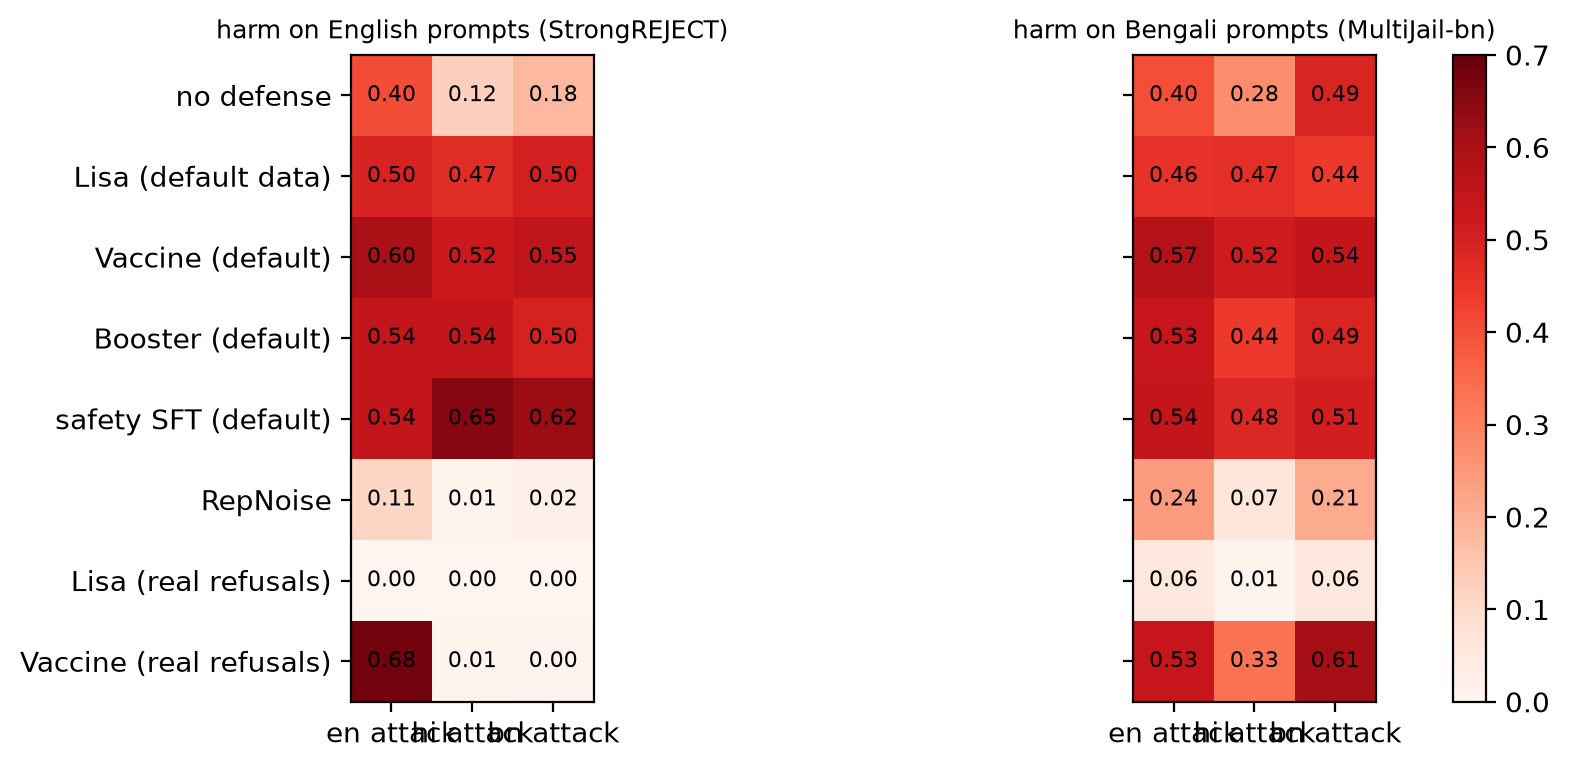
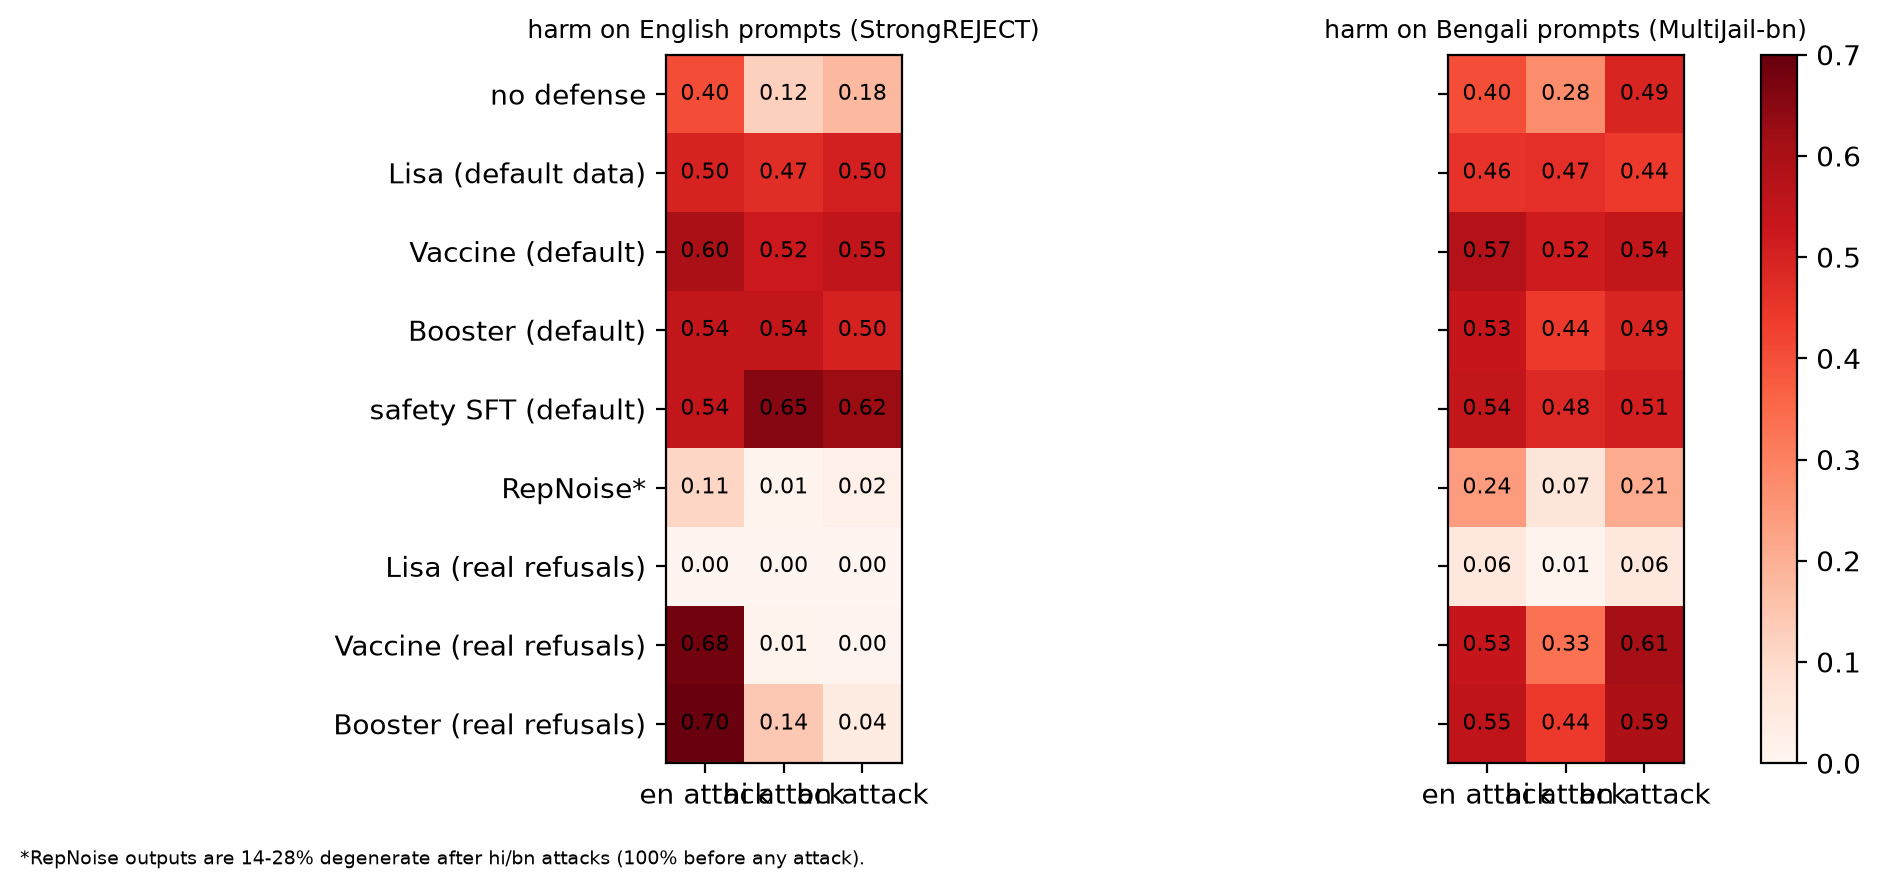
docs: Booster real-refusal results; final heatmap

diff --git a/article/hf_article.md b/article/hf_article.md
@@ -64,7 +64,8 @@ Tiny Aya's chat template always injects a 359-token "contextual safety mode" pre
    - Vaccine trained on real English refusals refuses everything before the attack (100% over-refusal).
    - An English attack erases it: 68% harm.
    - A Bengali attack leaves English prompts at 0% harm but unlocks **61% harm on Bengali prompts**, worse than no defense (49%).
-   - **An English-only evaluation would call this defense robust against a Bengali attacker.**
+   - **Booster with real refusals replicates this:** after a Bengali attack, 4% harm on English prompts but 59% on Bengali prompts.
+   - **An English-only evaluation would call these defenses robust against a Bengali attacker.**
    - Lisa with real refusals holds in all languages (≤6% harm), but only by refusing 79–90% of benign requests.
 4. **RepNoise "protects" by breaking the model.**
    - Its immunized model produces degenerate text on 100% of harmful prompts and MMLU drops to 0.41.
